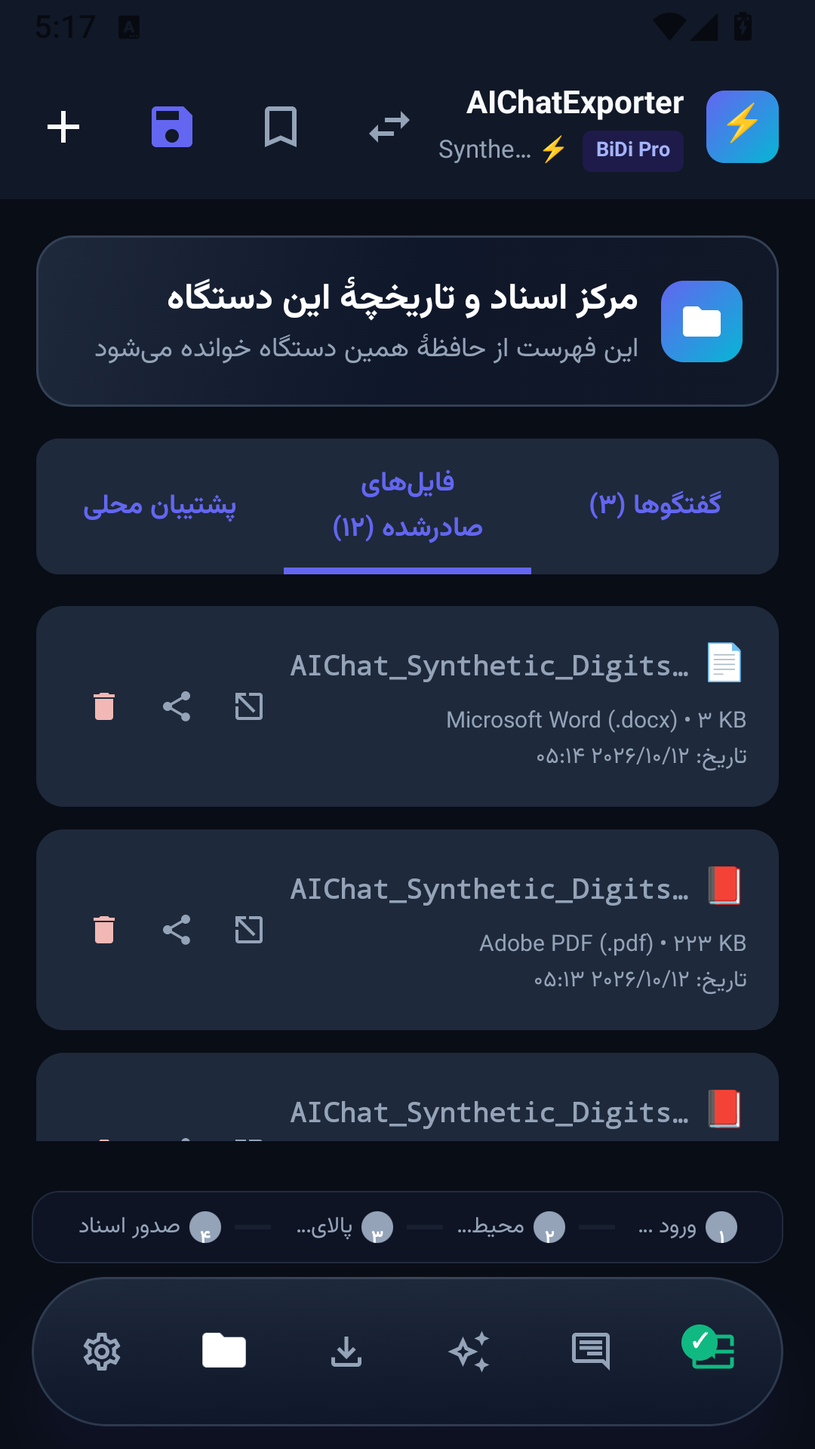
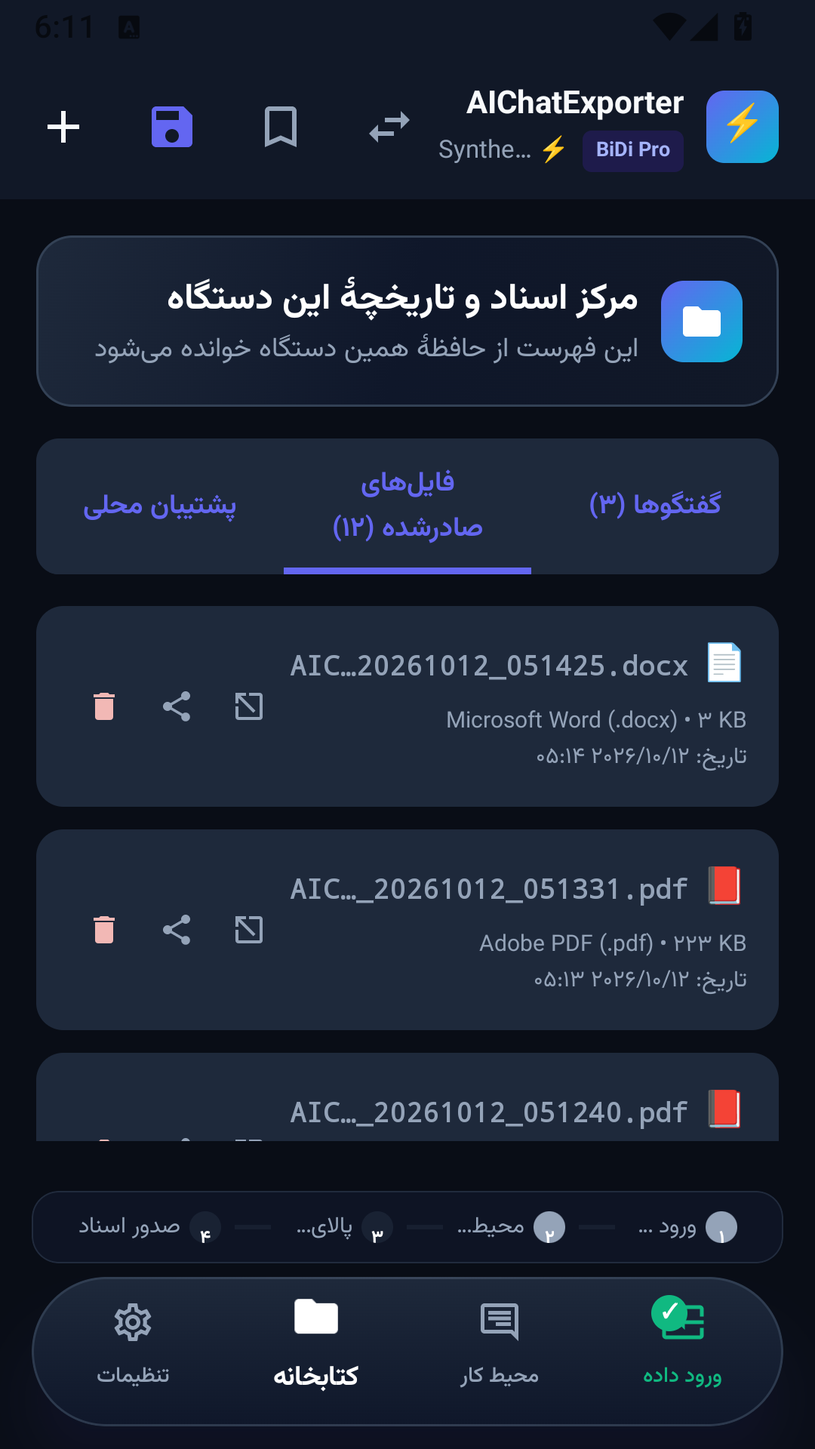
Show the end of an exported file's name instead of its beginning
Every card in the archive opened with "AIChat_" and Compose cut the tail, which
is exactly where the export time and the extension live, so three exports of one
session looked like three copies of the same file. The name is now ellipsised in
the middle before it is rendered; the real overflow is still the outer guard for
large font scales.

Measured on emulator-5554: the three cards read AIC…20261012_051425.docx,
AIC…_20261012_051331.pdf and AIC…_20261012_051240.pdf, and 24 monospace glyphs
fill the 528px box without tripping the outer ellipsis. The store screenshot of
that screen was re-shot because the old one showed the truncated names.

diff --git a/app/src/test/java/com/example/FileNameShapeTest.kt b/app/src/test/java/com/example/FileNameShapeTest.kt
@@ -1,0 +1,66 @@
+package com.example
+
+import com.example.domain.exporter.DocumentExporter
+import org.junit.Assert.assertEquals
+import org.junit.Assert.assertNotEquals
+import org.junit.Assert.assertTrue
+import org.junit.Test
+
+/**
+ * Register row B-27: the library card printed the head of an export name, and the head is the part every
+ * export of one session shares ("AIChat_Synthetic_Digits..."). Compose cuts from the end, so the tail that
+ * actually tells two cards apart - the timestamp and the extension - is what disappeared, and neither the
+ * user nor the file list in their own Downloads app could be matched against a card.
+ *
+ * The fix is [DocumentExporter.middleEllipsize], a string-level middle ellipsis, because the render-time
+ * `TextOverflow.MiddleEllipsis` needs ui-text 1.10 and this app resolves 1.7.0. A JVM test cannot see which
+ * string the card renders, but it can pin the contract the card now depends on: the tail survives, and the
+ * result never exceeds the budget the card's box fits.
+ */
+class FileNameShapeTest {
+
+    /** Two names this app really writes: same session, same prefix, one minute and one format apart. */
+    private val docxName = "AIChat_Synthetic_Digits_Check_20261012_051425.docx"
+    private val pdfName = "AIChat_Synthetic_Digits_Check_20261012_051331.pdf"
+
+    /** The card's name box at 1080x1920 fits about this many monospace characters at bodySmall. */
+    private val cardBudget = 24
+
+    @Test
+    fun ellipsizedAtCardWidthTheTailStillSurvives() {
+        val shown = DocumentExporter.middleEllipsize(docxName, cardBudget)
+
+        assertTrue("extension must be visible, was: $shown", shown.endsWith(".docx"))
+        assertTrue("timestamp must be visible, was: $shown", shown.contains("20261012_051425"))
+    }
+
+    @Test
+    fun noBudgetIsEverOverflowedAndNoRoomyBudgetLosesTheExtension() {
+        (0..40).forEach { budget ->
+            val shown = DocumentExporter.middleEllipsize(docxName, budget)
+
+            assertTrue("budget $budget produced ${shown.length} chars: $shown", shown.length <= budget)
+            if (budget >= 8) {
+                assertTrue("budget $budget dropped the extension: $shown", shown.endsWith(".docx"))
+            }
+        }
+    }
+
+    @Test
+    fun aNameThatFitsComesBackByteIdentical() {
+        assertEquals(docxName, DocumentExporter.middleEllipsize(docxName, docxName.length + 1))
+        // The boundary is the length itself: a name exactly as wide as the box is not touched.
+        assertEquals(docxName, DocumentExporter.middleEllipsize(docxName, docxName.length))
+
+        val short = "Report.docx"
+        assertEquals(short, DocumentExporter.middleEllipsize(short, cardBudget))
+    }
+
+    @Test
+    fun twoExportsOfOneSessionStayDistinctAtCardWidth() {
+        val shown = DocumentExporter.middleEllipsize(docxName, cardBudget)
+        val other = DocumentExporter.middleEllipsize(pdfName, cardBudget)
+
+        assertNotEquals(shown, other)
+    }
+}

diff --git a/app/src/main/java/com/example/ui/screens/LibraryScreen.kt b/app/src/main/java/com/example/ui/screens/LibraryScreen.kt
@@ -62,6 +62,7 @@ import com.example.data.model.ExportFormat
 import com.example.data.model.ExportRecord
 import com.example.data.model.PlatformPreset
 import com.example.domain.bidi.BidiEngine
+import com.example.domain.exporter.DocumentExporter.middleEllipsize
 import com.example.domain.exporter.FileShareHelper
 import com.example.domain.parser.scrubInventedModel
 import com.example.ui.components.AdaptiveLabel
@@ -330,15 +331,15 @@ fun ExportRecordCard(
                     Text(text = record.format.iconEmoji, fontSize = 16.sp)
                     Spacer(modifier = Modifier.width(6.dp))
                     Text(
-                        text = record.fileName,
+                        text = middleEllipsize(record.fileName, 24),
                         style = MaterialTheme.typography.bodySmall.copy(
                             fontWeight = FontWeight.SemiBold,
                             fontFamily = FontFamily.Monospace
                         ),
                         maxLines = 1,
-                        // Ellipsis instead of the default Clip: a mid-glyph cut made two names that
-                        // differ only at the end read as identical. MiddleEllipsis would be the better
-                        // cue (keeps the extension), but it needs ui-text 1.10+; this app resolves 1.7.0.
+                        // Head-ellipsized to the ~24 monospace characters this box fits, so the timestamp and
+                        // extension survive at the tail. Ellipsis stays as the outer guard: at a large font
+                        // scale even the shortened name overflows, and losing tail characters beats a wrapped card.
                         overflow = TextOverflow.Ellipsis
                     )
                 }

diff --git a/app/src/main/java/com/example/domain/exporter/DocumentExporter.kt b/app/src/main/java/com/example/domain/exporter/DocumentExporter.kt
@@ -632,6 +632,21 @@ object DocumentExporter {
         }
     }
 
+    /**
+     * Middle ellipsis done by hand on the string, for the library card's name line. The part that tells two
+     * exports apart is the tail - the timestamp and the extension - and Compose's `TextOverflow.Ellipsis`
+     * cuts exactly that off; the real fix is `MiddleEllipsis`, which needs ui-text 1.10 while this app
+     * resolves 1.7.0. `budget` is how many characters the box fits; names written here keep their extension
+     * inside the last 20 characters, which is why the tail is cut at that size.
+     */
+    internal fun middleEllipsize(name: String, budget: Int): String {
+        if (name.length <= budget) return name
+        // Under 8 there is room for neither the cue nor a readable tail, so the head is shown as is.
+        if (budget < 8) return name.take(budget)
+        if (budget <= 21) return "…" + name.takeLast(budget - 1)
+        return name.take(budget - 21) + "…" + name.takeLast(20)
+    }
+
     private const val HTML_STYLE = """
 :root { color-scheme: light dark; }
 body { font-family: "Vazirmatn", "Segoe UI", Tahoma, sans-serif; margin: 0; padding: 24px; background: #f8fafc; color: #0f172a; line-height: 1.85; }

diff --git a/docs/09_DEBUG_PLAN.md b/docs/09_DEBUG_PLAN.md
@@ -139,7 +139,7 @@
 | B-۲۴ | گزینهها و اجازهدسترسیهایِ مرده در کد ماندهاند | `customSubtitle` و `authorName` هیچجا خوانده نمیشوند؛ `file_paths.xml` مسیری را اجازه میدهد که هرگز در آن نوشته نمیشود | `DocumentExporter.kt:30-31`؛ `res/xml/file_paths.xml:3` (cache) و `:5` (external-files) | جستوجو: برای هر کدام فقط سطرِ اعلام؛ `getExternalFilesDir` در کل `app/src/main` صفر | حذفِ مردهها در همان موجی که فایلها را لمس میکند | **نصفه باز (۲۰۲۶-۱۰-۱۱، موج W5):** `customSubtitle` و `authorName` از `ExportOptions` حذف شدند و جستوجوی `app/src` برای هر دو صفر خواننده داد. مانده: دو اجازهٔ بیمصرفِ `FileProvider` در `res/xml/file_paths.xml:3` (cache) و `:5` (external-files) که هیچ کدی در آنها نمینویسد — این نصف در موجِ W7 (باقیماندهٔ قالب) بسته میشود. **بسته (۲۰۲۶-۱۰-۱۱، موج W7):** دو اجازهٔ بیمصرف حذف شدند و `file_paths.xml` فقط `files-path` را نگه داشت، چون تنها مقصدِ نوشتنِ واقعی همان `filesDir/documents` است (`DocumentExporter.kt:41` و آرشیوِ پشتیبانِ `MainViewModel.kt:374`). جستوجوی `cacheDir` و `externalCacheDir` و `getExternalFilesDir` در کل `app/src` (همهٔ source setها، بیرونِ `build/`) صفر نتیجه داد؛ `DownloadsPublisher.kt:32` هم از `MediaStore` مینویسد، یعنی هیچ ریشۀ دیگری پشتِ `FileProvider` نیست. ردیف با این نصف کامل بسته شد، چون نیمۀ دیگرش (`customSubtitle` و `authorName`) در موج W5 رفته بود |
 | B-۲۵ | فایلِ اصلیِ صدور در پوشهٔ خصوصی مینشیند که هیچ فایلگردی پیدایش نمیکند | مقصدِ primary در `context.filesDir/documents` است و روی هر اندرویدی از فایلمنیو خارج است؛ تنها راهِ خروج، همرسانی است | `DocumentExporter.kt:43-48`؛ شاخۀ قدیمی `DownloadsPublisher.kt:26-28` | خواندنِ کد + بندِ ۵ از `docs/reports/release-readiness-2026-10-11.md` | با تصمیمِ کاربر بر `minSdk 29`، رونوشتِ Download روی همهٔ نسخههایِ پشتیبانیشده ساخته میشود و شاخۀ مرده حذف میگردد | **بسته با تصمیم (۲۰۲۶-۱۰-۱۱):** اندروید ۷ تا ۹ از پشتیبانی حذف شد، نه با کدِ جدید |
 | B-۲۶ | `uiautomator dump` بعد از کُشتنِ یک دامپ، تا پایانِ عمرِ شبیهساز میمیرد | ثبتِ سرویس در `system_server` بیاعتبار میماند و هیچ فرآیندِ `uiautomator` زنده نیست؛ فقط ریبوت پاکش میکند که اینجا ممنوع است | ابزارِ بیرونی، نه کدِ اپ | خطای `IllegalStateException: UiAutomationService … already registered!` در `docs/reports/agy/ctrl-device-run-2026-10-11.md` | در `AGY-E2E-PLAN.md` بندِ ۴ مسیرِ جایگزین (عکسِ صفحه + مختصاتِ دامپهایِ ذخیرهشده) نوشته شد | **بسته (ابزاری، ۲۰۲۶-۱۰-۱۱)** — **تصحیحِ مهم (دورِ R2، همان شب):** «تا پایانِ عمرِ شبیهساز» درست بود و دقیقاً همانطور هم برعکس شد: میزبان ریاستارت شد، `emulator-5554` از نو بالا آمد و `uiautomator dump /dev/tty` دوباره کار کرد (۲۳٬۳۷۶ بایت هرمِ واقعی در `com.aistudio.aichatexporter.kxrtva`). پس راهِ بازگشتِ بدونِ ریبوتِ خودِ شبیهساز، ریاستارتِ میزبان است؛ تا پیش از آن، مسیرِ جایگزین (عکس + مختصات) تنها راه است. **نکتۀ اندازهگیری:** `adb shell uiautomator dump /sdcard/w.xml` روی این شبیهساز خروجیاش را نمینویسد (صفر بایت) — فقط شکلِ `exec-out ... dump /dev/tty` کار میکند |
-| B-۲۷ | پسوندِ فایلِ صادرشده هیچجور دیده نمیشود | نامِ فایل در کارتِ کتابخانه یکخطی است و Compose این نسخه `MiddleEllipsis` را ندارد؛ بریدن از انتها رخ میدهد، پس `.pdf` و زمانِ انتهای نام گم میشود | `LibraryScreen.kt:341`؛ `gradle/libs.versions.toml:12` (BOM 2024.09.00 → `ui-text` 1.7.0) | شمارشِ ثابتهای `TextOverflow` روی خودِ artifactِ کششده: 1.7.0 = `Clip/Ellipsis/Visible/Invalid`، 1.10.4 = `+MiddleEllipsis/StartEllipsis` | یا بالا بردنِ BOM (یک دورِ مستقل با بیلدِ پشتش)، یا بریدنِ دستیِ رشته پیش از رندر | **باز** — minor |
+| B-۲۷ | پسوندِ فایلِ صادرشده هیچجور دیده نمیشود | نامِ فایل در کارتِ کتابخانه یکخطی است و Compose این نسخه `MiddleEllipsis` را ندارد؛ بریدن از انتها رخ میدهد، پس `.pdf` و زمانِ انتهای نام گم میشود | `LibraryScreen.kt:341`؛ `gradle/libs.versions.toml:12` (BOM 2024.09.00 → `ui-text` 1.7.0) | شمارشِ ثابتهای `TextOverflow` روی خودِ artifactِ کششده: 1.7.0 = `Clip/Ellipsis/Visible/Invalid`، 1.10.4 = `+MiddleEllipsis/StartEllipsis` | یا بالا بردنِ BOM (یک دورِ مستقل با بیلدِ پشتش)، یا بریدنِ دستیِ رشته پیش از رندر | **باز** — minor **بسته (۲۰۲۶-۱۰-۱۲):** بهجای بریدنِ انتها، رشته پیش از رندر وسطاً بریده میشود و دُمِّ نام (زمانِ صدور + پسوند) میماند؛ `TextOverflow.MiddleEllipsis` که این کار را خودش میکند به `ui-text` ۱.۱۰ نیاز دارد و این اپ ۱.۷.۰ را حل میکند، پس بریدنِ دستی انتخاب شد. شاهدِ دستگاهی روی `emulator-5554`، سه کارتِ همفرمتِ پشتِ سرِ هم: «AIC…20261012_051425.docx»، «AIC…_20261012_051331.pdf»، «AIC…_20261012_051240.pdf» — پیش از این اصلاح هر سه «AIChat_Synthetic_Digits…» بودند. جعبۀ نام 528 پیکسل است و 24 نویسهٔ مونواسپیس دقیقاً در آن جا میشود، پس سرِ `Ellipsis` هم فعال نشد. نگهبانِ JVM: `FileNameShapeTest` با چهار تست؛ با برگرداندنِ بریدنِ انتها سه تای اول قرمز میشوند و چهارمی (نامِ کوتاهِ دستنخورده) سبز میماند — `docs/reports/raw/FileNameShapeTest-*`. |
 | B-۲۸ | یک متنِ فارسیِ آماده در کد هست که هیچجا نمایش داده نمیشود | `AppScreen.stepLabel` («گام ۱…»گونهها) هیچ خوانندهای در پروژه ندارد؛ همین باعث میشد ادعای «نشانه و برچسب با هم نمیخوانند» روی دیسک درست نباشد | `AppNavigation.kt:85` | جستوجوی نام در `app/src`: فقط سطرِ اعلام | یا در ریل نمایش داده شود یا حذف؛ تصمیمِ کاربر، نه فنی | **باز** — minor (تصحیحِ ادعایِ پلن) |
 | B-۲۹ | کارتِ خطای صدور بهجایِ جملهٔ فارسی، مسیرِ خامِ فایلِ سیستمی را به کاربر نشان میدهد | متنِ استثنا عیناً در `ExportUiState.errorMessage` مینشیند و کارتِ قرمز همان را چاپ میکند؛ در همان رشته دو اسلشِ پشتِ هم هم دیده میشود (`…/files//documents/…`)، یعنی ساختِ مسیر هم جا دارد | شاخۀ `onFailure` در `MainViewModel.kt` (صدور)، `ExportStudioScreen.kt:426-458` (کارت) | کارتِ واقعیِ روی `emulator-5554` با پوشۀ `chmod 500`: «خطا در تولید سند — data/user/0/com.aistudio.aichatexporter.kxrtva/files//documents/AIChat_…docx: open failed: EACCES (…)» در `docs/reports/agy/b21-export-error-card.png` | یک جملهٔ فارسیِ علتمحور («جایِ ذخیرهٔ سند باز نمیشود…»)+ علتِ کوتاه، و نگهداشتنِ متنِ خام در لاگ؛ اصلاحِ الحاقِ مسیر که `//` میسازد | **بسته (۲۰۲۶-۱۰-۱۲):** کارتِ قرمز دیگر متنِ استثنا را چاپ نمیکند. `MainViewModel.kt` در شاخۀ `onFailure`ِ `performExport` متنِ خام را با برچسبِ `ExportFailure` در لاگ مینویسد و در `errorMessage` فقط یک جمله میماند: «جایِ ذخیرهٔ سند باز نمیشود.» برای `FileNotFoundException` (همان حالتِ `chmod 500`) و «ساختن سند روی این دستگاه ممکن نشد.» برای بقیه. **ادعایِ این ردیف دربارهٔ `//` باطل است:** رشتهٔ چاپشده یک اسلش دارد؛ اسلشِ دومِ تصویر، اسلشِ آغازینِ همان مسیرِ مطلق است که در پاراگرافِ راستبهچپ به انتهای سطرِ اول رفته و دقیقاً کنارِ `files/` نشسته است. شاهد: همان استثنا با همان `File(filesDir, "documents")` در `docs/reports/raw/ExportFileProofTest-2d2f609-20261011T203005Z.txt:4` با اسلشِ آغازین و بیاسلشِ دوباره چاپ شده است، و در `app/src/main` هیچ الحاقِ رشتهایِ مسیر وجود ندارد. **شاهدِ این ویرایش:** کامپایل؛ هیچ تستی متنِ کارت را نمیخواند، پس دیدنِ جملهٔ تازه روی `emulator-5554` (همان `chmod 500`) باقی است — minor |
 | B-۳۰ | دو تاریخِ دیگر هنوز سلیقۀ کاربر را برعکس یا بیطرف میخوانند | (الف) `GeminiClient.kt:349-351` تاریخِ داخلِ گزارشِ پالایش را **بیقید** به رقمِ فارسی میبرد، پس با کلیدِ خاموش هم فارسی میماند؛ (ب) `LibraryScreen.kt:242` و `:311` با `Locale.getDefault()` قالب میزنند، پس رشتهٔ میانی با رقمِ خودِ گوشی ساخته میشود و `toPersianDigits` که فقط رقمِ ASCII را میشناسد، چیزی را عوض نمیکند | `GeminiClient.kt:349-351`؛ `LibraryScreen.kt:242`، `:311` | خواندنِ کد در همان دوری که `OpenXmlGenerator` درست شد؛ ~~باندلِ `Locale.forLanguageTag("fa-IR")` روی `SimpleDateFormat("yyyy/MM/dd")` رقمِ عربی-هندی میدهد~~ — این ادعا اندازهگیری نشد و روی JVMِ میزبان غلط درآمد: `fa-IR` خودش رقمِ فارسی (U+06F0) مینویسد؛ رقمِ عربی-هندی (U+0660) از `ar-EG` و `ar-SA` آمد | (الف) عبور از همان دروازۀ سند؛ (ب) `Locale.US` صریح مثلِ دو جایِ دیگرِ تاریخ | **نصفِ (الف) بسته، نصفِ دیگرش باز / بسته (ب، ۲۰۲۶-۱۰-۱۲):** (ب) هر دو `SimpleDateFormat` آن دو کارت، که پس از این ویرایش روی خطهای `LibraryScreen.kt:243` و `:312` نشستهاند، به `Locale.US` بسته شدند تا رشتهٔ میانی همیشه ASCII بماند و رقم را کلیدِ خودِ برنامه تعیین کند، نه گوشی؛ همان کاری که موج W4 برای تاریخِ داخلِ سند کرد. (الف) `GeminiClient.kt:349-351` دستنخورده ماند. **قیدِ ساختاری:** `GeminiClient.kt:678-679` را `LocalDistillationTest.kt:314-342` از متنِ منبع میخواند و با تغییرِ شکلِ آن نه قرمز، که میترکد؛ این اصلاح باید در موجِ خودش با همان تست انجام شود. **شاهدِ (ب):** کامپایل؛ آن دو خط داخل یک کمپوزبلاند و هیچ تستی متنشان را نمیخواند، پس دیدنِ تاریخِ فارسی با کلیدِ روشن روی گوشیِ فارسیرقم باقی است — minor **شاهدِ (ب) بسته شد (۲۰۲۶-۱۰-۱۲، `emulator-5554`):** کارتِ کتابخانه با کلیدِ روشن «تاریخ: ۲۰۲۶/۱۰/۱۲ ۰۳:۴۶» و با کلیدِ خاموش «تاریخ: 2026/10/12 03:46» — همان کارت، همان لحظه، فقط سلیقۀ رقم عوض شد. یعنی رشتهٔ میانی همیشه ASCII میماند و رقم را کلیدِ خودِ برنامه تعیین میکند، نه زبانِ گوشی. (الف) همچنان باز و دستنخورده. **تصحیحِ ادعا و نصفِ (الف) بسته (۲۰۲۶-۱۰-۱۲، فقط روی JVMِ میزبان؛ هیچ عددی از روی گوشی خوانده نشد):** این ادعا که `Locale.getDefault()` روی گوشیِ فارسیرقم رقمِ عربی-هندی میسازد، اندازهگیری نشد و غلط بود: روی همین ماشین `fa-IR` خودش رقمِ فارسی (U+06F0) مینویسد، پس تستِ فقطفارسی زیرِ کدِ خراب هم سبز میماند. چیزی که واقعاً قرمز شد شاخۀ `ar-EG` است: با کدِ قدیمی تاریخِ گزارش `«٢٠٢٥/١٠/١٠ ٠٦:٠٠»` شد بهجای `«۲۰۲۵/۱۰/۱۰ ۰۶:۰۰»`، یعنی رقمی که `toPersianDigits` هرگز نمیبیندش و کلیدِ کاربر هیچ قدرتی رویش ندارد. `GeminiClient.kt:350` حالا `Locale.US` است (تغییرِ یک خط، جای دیگرِ فایل دستنخورده، چون `LocalDistillationTest.kt:314-342` شکلِ `GeminiClient.kt:678-679` را از متنِ منبع میخواند). نگهبانِ تازه: `LocalDistillationTest.offlineDistillationDateNeverComesFromTheHandsetLocale` (شش زبانِ گوشی را امتحان میکند و اگر هیچکدام رقمِ تبدیلنشدنی نسازد، skip میشود نه سبزِ توخالی). قرمزِ عمدی دیده شد: برگرداندنِ `Locale.getDefault()` ⇒ همان یک تست قرمز، ۱۱ تای دیگرِ کلاس سبز (`docs/reports/raw/LocalDistillationTest-093564a-20261011T225531Z-break-locale.xml`)؛ سپس بازگردانی و ۱۰۸ تست سبز. **نیمی از (الف) همچنان باز است و این دور عمداً انجام نشد:** تبدیلِ بیقید به رقمِ فارسی. کلِ موتورِ آفلاین (کلِ موتورِ آفلاین: `localDigits` در 25 نقطه، اندازهگیریشده) بیقید فارسی مینویسد و `generateLocalSmartDistillation` هیچ `ExportOptions`ی نمیگیرد؛ دروازهکردنِ فقطِ تاریخ، همان عدد را با بقیۀ اعدادِ همان سند میجنگاند. تصمیمِ درست این است که متنِ *ذخیرهشده* اصلاً نباید به سلیقۀ *سند* وابسته باشد؛ این یک موجِ جدا میخواهد. |

diff --git a/docs/reports/store-assets-2026-10-11.md b/docs/reports/store-assets-2026-10-11.md
@@ -49,7 +49,7 @@
 | `03-distillation-modes.png` | 1080x1920 | 63e702e8288453a4 |
 | `04-export-studio.png` | 1080x1920 | 832a74c8fc4bb488 |
 | `05-export-success.png` | 1080x1920 | 892e5451b3da0745 |
-| `06-library-records.png` | 1080x1920 | 2886313a1f776465 |
+| `06-library-records.png` | 1080x1920 | f25f5736583185c6 |
 | `feature-graphic-1024x500.png` | 1024x500 | d2dd78725425bc3b |
 | `icon-512.png` | 512x512 | 410cba594a2b09a5 |
 
